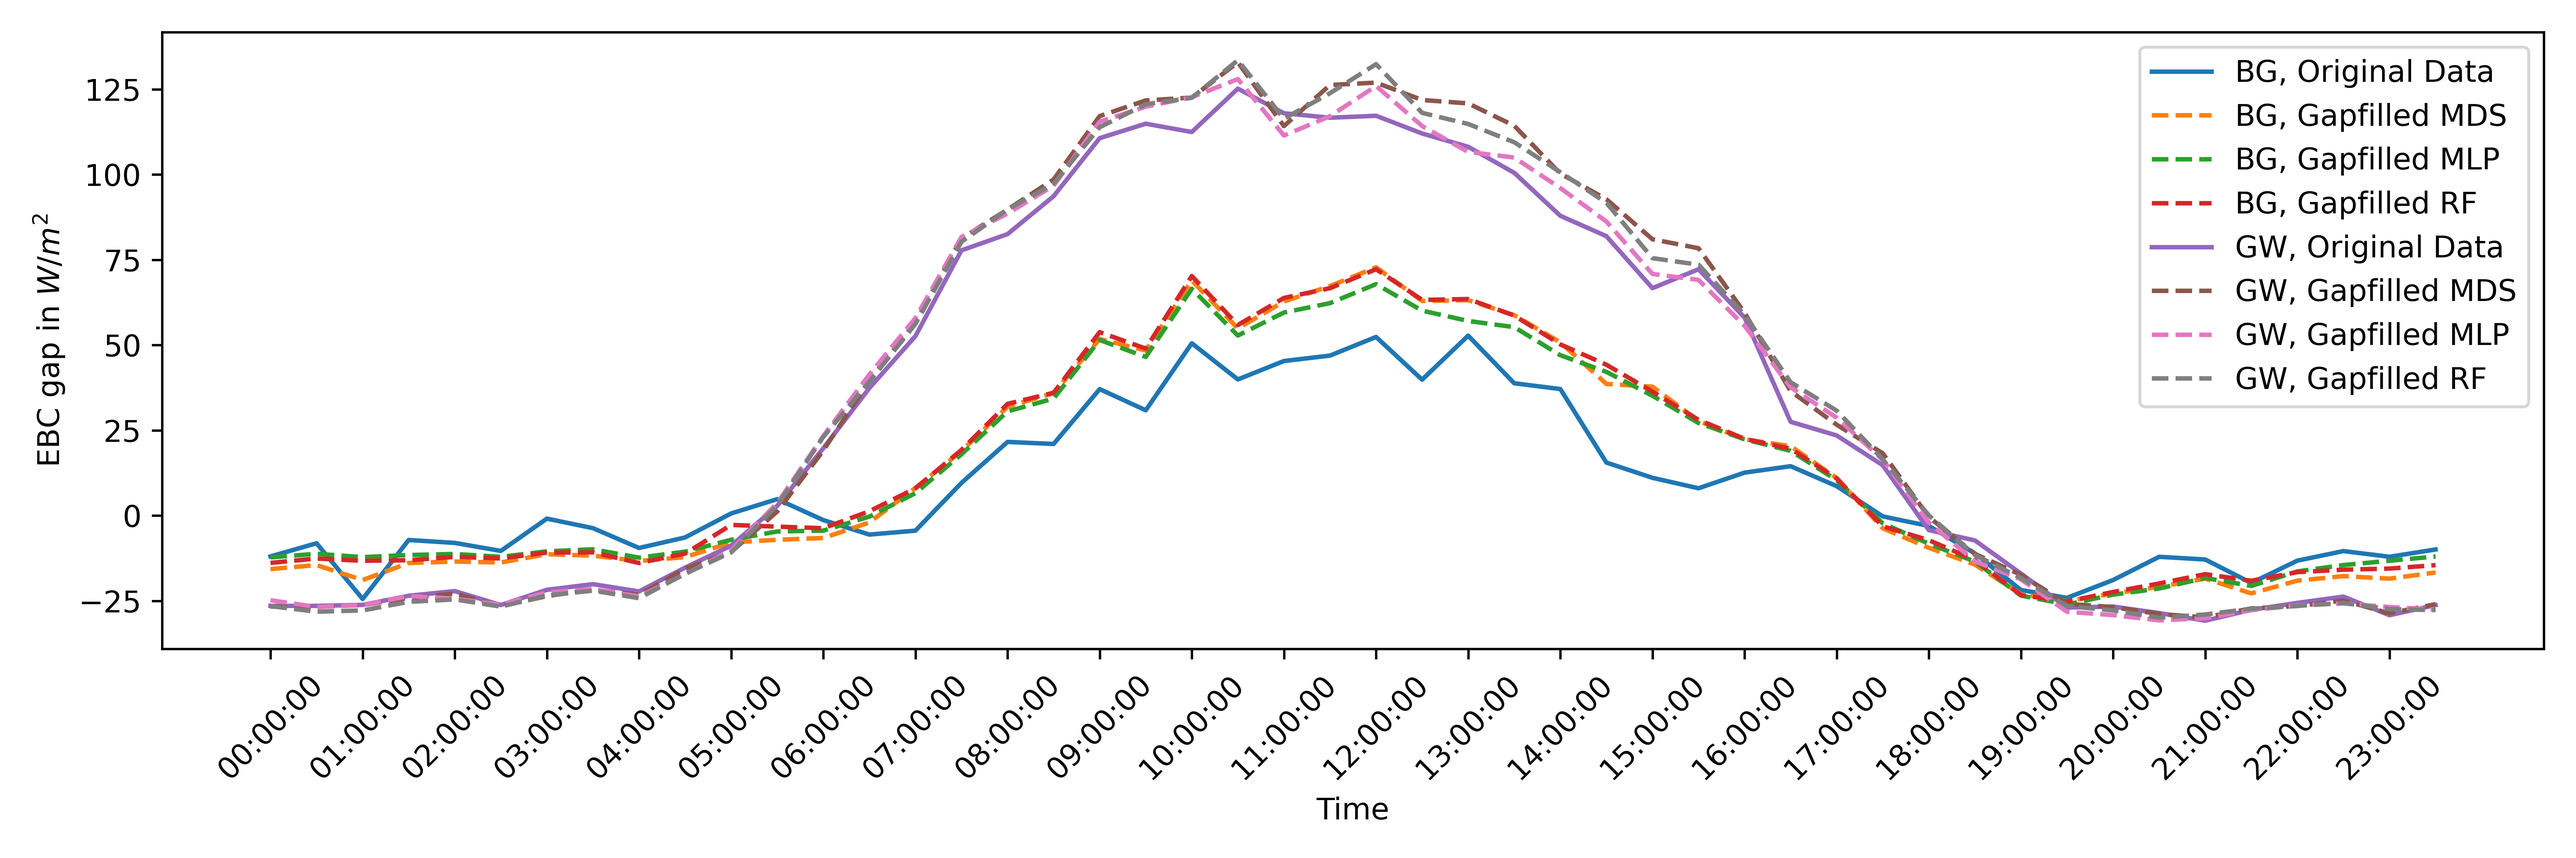
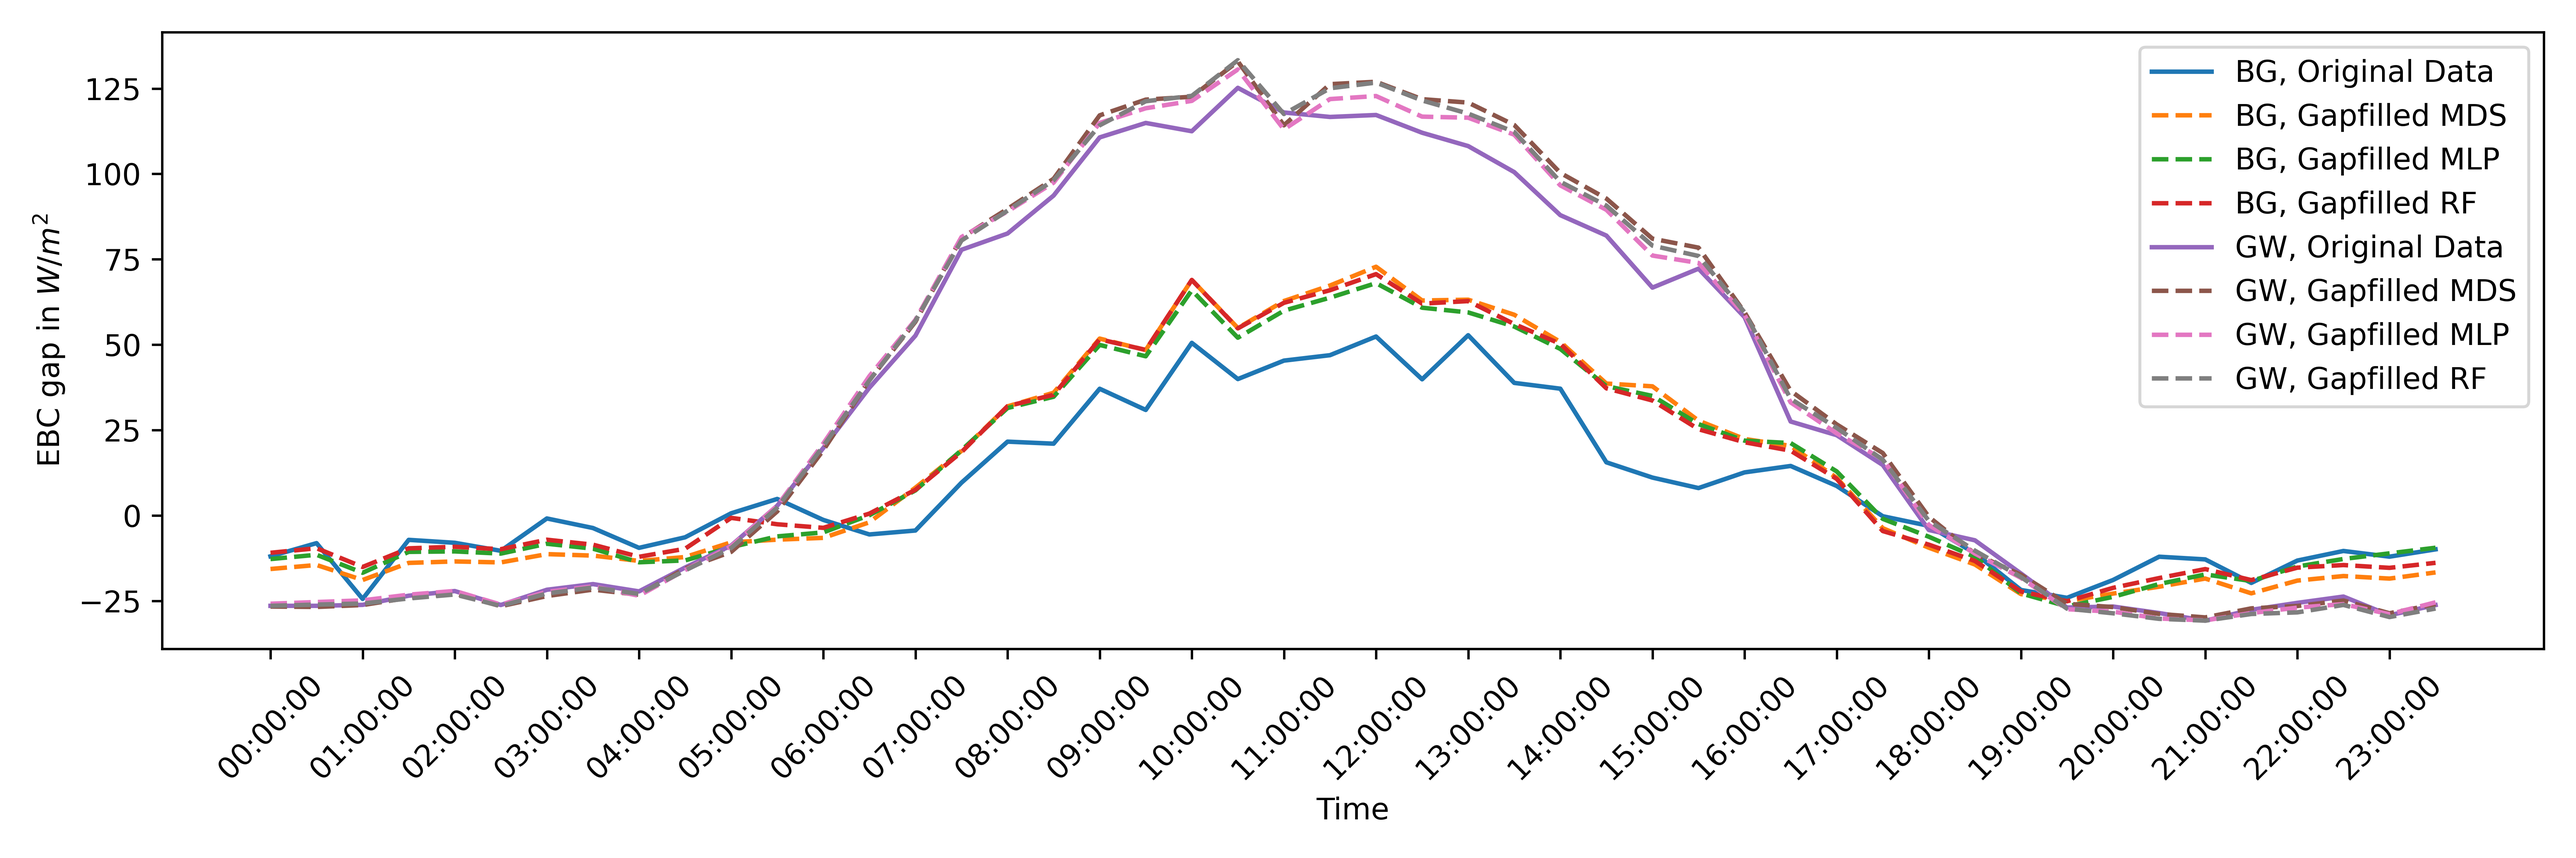
added airtemperature as feature

diff --git a/modules/columns.py b/modules/columns.py
@@ -6,9 +6,16 @@ COLS_KEY_ALT = ["year", "day_of_year", "30min", "location"]
 COLS_LABELS_ALL = ["H_orig", "LE_orig"]
 
 # all possible columns that can be used as features for mlp training
-COLS_FEATURES_ALL = COLS_KEY + ["netRadiation", "incomingShortwaveRadiation",
-                                "soilHeatflux", "airPressure", 
-                                "waterPressureDeficit", "waterVaporPressure", "windSpeed", "relativeHumidity", "day_of_year"]
+COLS_FEATURES_ALL = COLS_KEY + ["netRadiation",
+                                "incomingShortwaveRadiation",
+                                "soilHeatflux",
+                                "airPressure", 
+                                "waterPressureDeficit",
+                                "waterVaporPressure",
+                                "windSpeed",
+                                "relativeHumidity",
+                                "day_of_year",
+                                "airTemperature"]
 
 # only important features
 COLS_IMPORTANT_FEATURES = COLS_KEY + ["incomingShortwaveRadiation", "soilHeatflux", "waterPressureDeficit"]

diff --git a/modules/preprocessing_util.py b/modules/preprocessing_util.py
@@ -187,6 +187,11 @@ def preprocess_meteo_data(path_raw, path_save, cols):
     df_bg_24["windSpeed"] = df_bg_24["Windgeschw_380cm"]
     df_gw_24["windSpeed"] = df_gw_24["Windgeschw_I_43m"]
 
+    df_bg_23["airTemperature"] = df_bg_23["Lufttemperatur_200cm"]
+    df_gw_23["airTemperature"] = df_gw_23["Lufttemperatur_43m"]
+    df_bg_24["airTemperature"] = df_bg_24["Lufttemperatur_200cm"]
+    df_gw_24["airTemperature"] = df_gw_24["Lufttemperatur_43m"]
+
 
     # add location column
     df_bg_23["location"] = 0

diff --git a/MLP.py b/MLP.py
@@ -23,8 +23,8 @@ from modules.paths import PATH_MODEL_TRAINING, PATH_MODEL_SAVES_MLP, PATH_PLOTS,
 
 # SPECIFY THESE
 # cols_features = COLS_KEY +  ["soilHeatflux", "incomingShortwaveRadiation", "waterPressureDeficit"]
-cols_features = COLS_KEY + ["incomingShortwaveRadiation"]
-
+# cols_features = COLS_KEY + ["incomingShortwaveRadiation"]
+cols_features = ["incomingShortwaveRadiation"]
 cols_labels = COLS_LABELS_ALL
 normalization = False
 minmax_scaling = True
